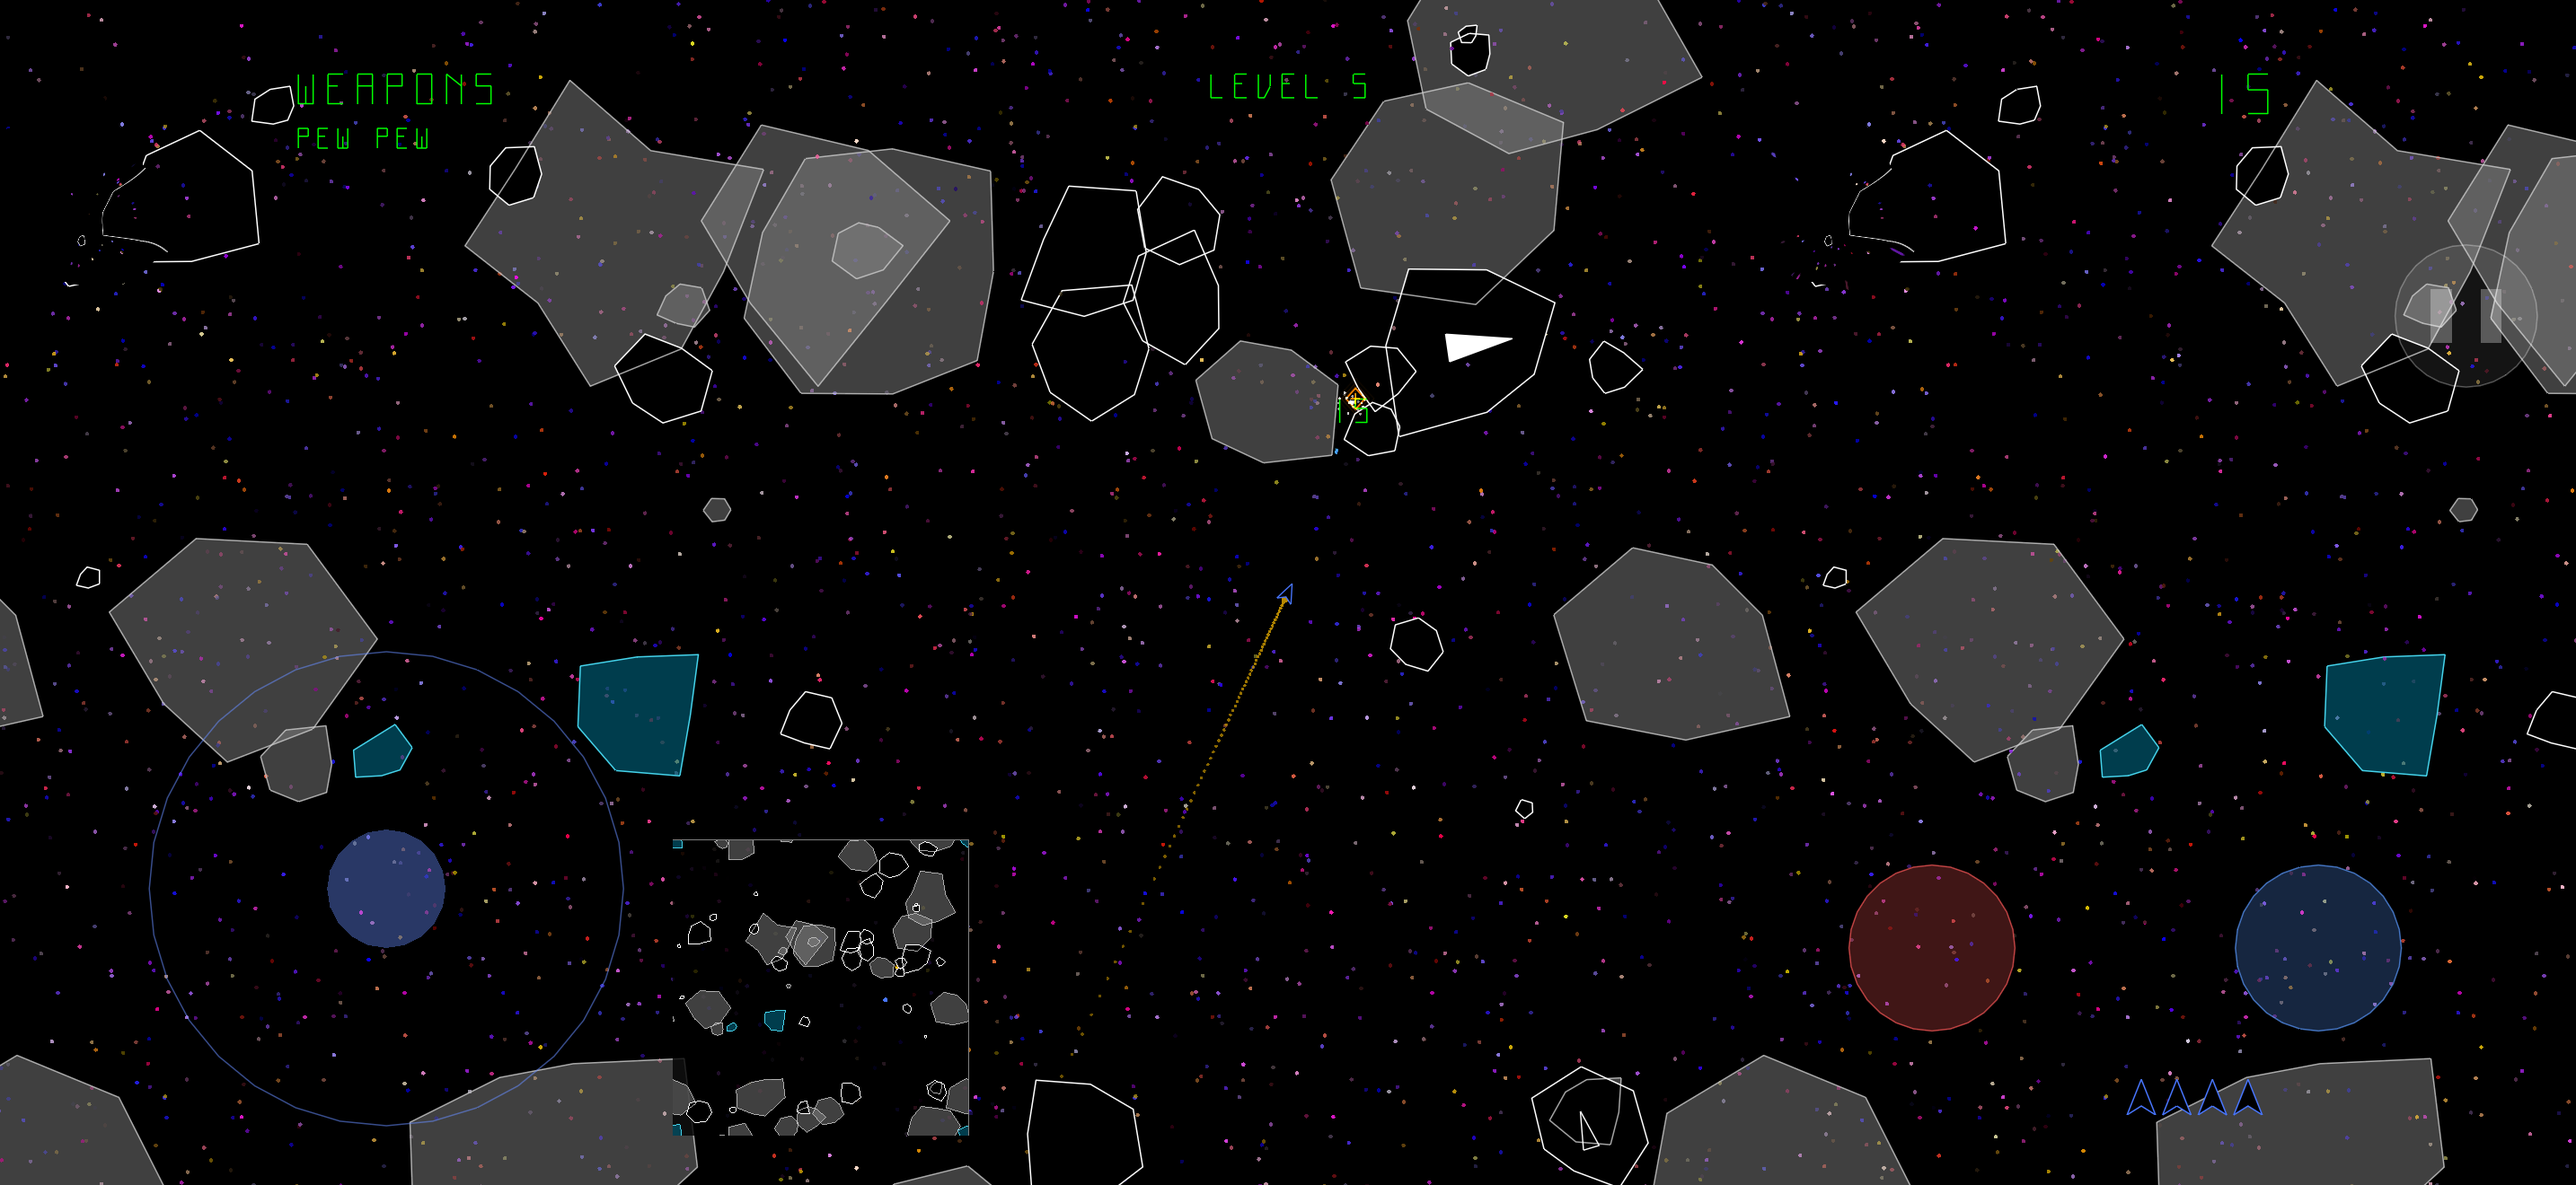
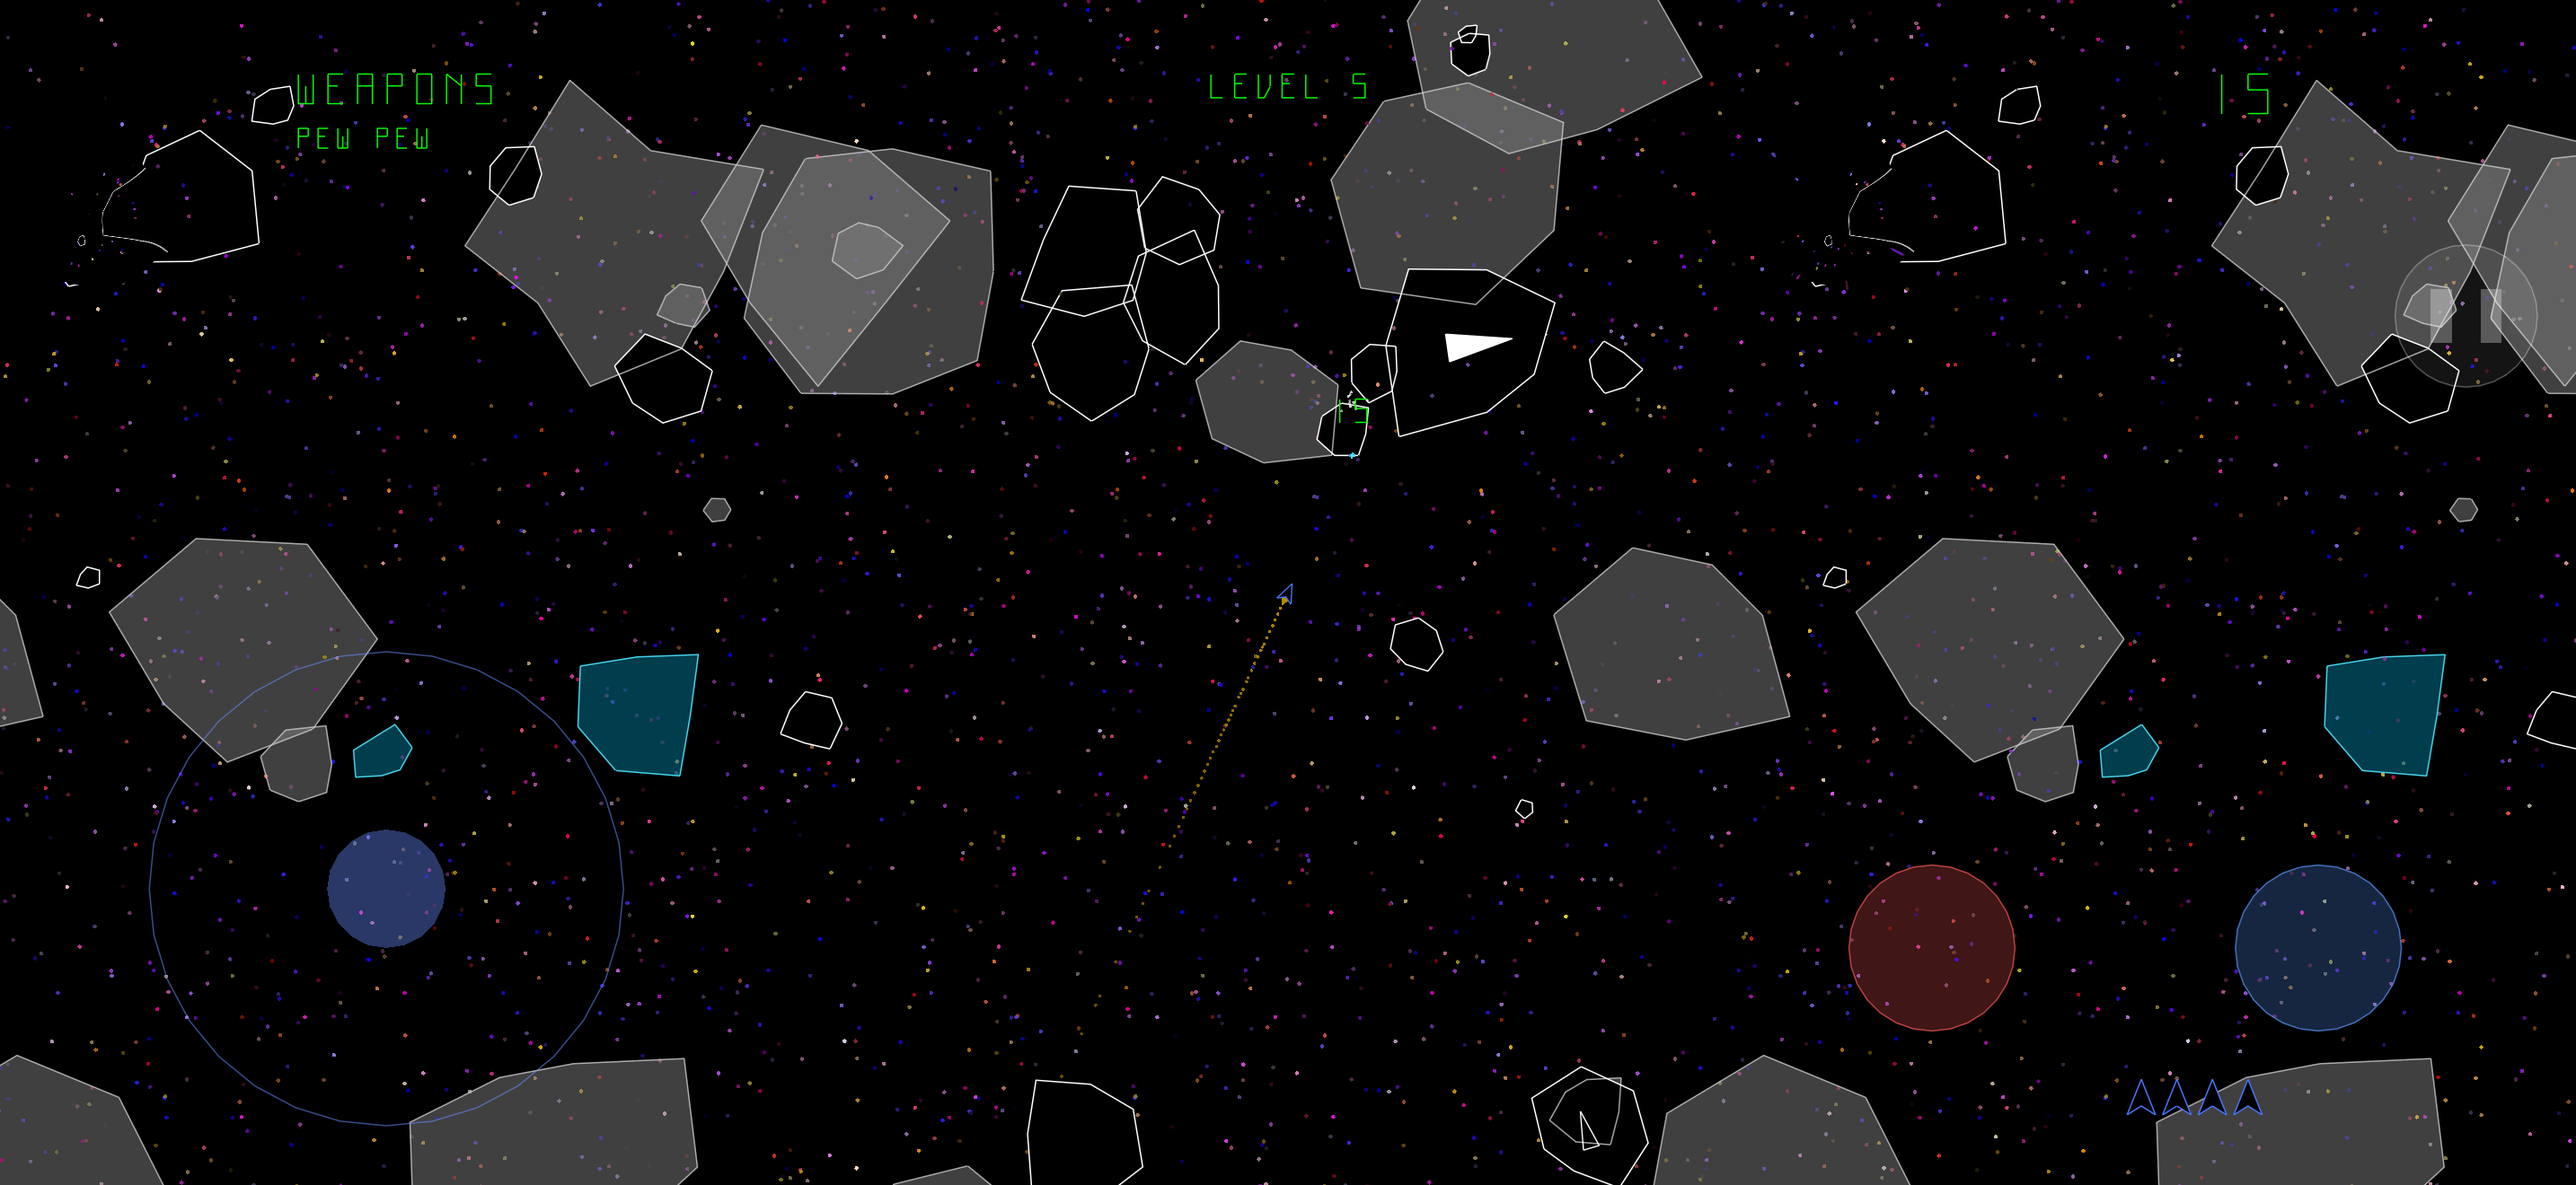
Forced-touch shots: no minimap, matching the devices
draw_map()'s Android/iOS compile-time early-return becomes the same
runtime touch_osd_enabled() gate as the OSD, so NEWTONIA_FORCE_TOUCH
renders skip the minimap exactly like the real touch builds (which
disable it). Devices and plain desktop are behaviour-identical. Mobile
store set re-rendered without it.

Claude-Session: https://claude.ai/code/session_01S7o2TtKCfgT8kU7px33tAu

diff --git a/glgame.cpp b/glgame.cpp
@@ -8529,9 +8529,9 @@ void GLGame::draw_perspective(GLShip *glship) const {
 }
 
 void GLGame::draw_map() const {
-#if defined(__ANDROID__) || defined(__IOS__)
-  return;
-#endif
+  // No minimap on touch (and on forced-touch screenshot renders, which
+  // must match the devices) — same runtime gate as the OSD.
+  if (touch_osd_enabled()) return;
   float minimap_size = num_y_viewports() == 2 ? window.y()/6 : window.y()/4;
 
   if(split_screen()) {
